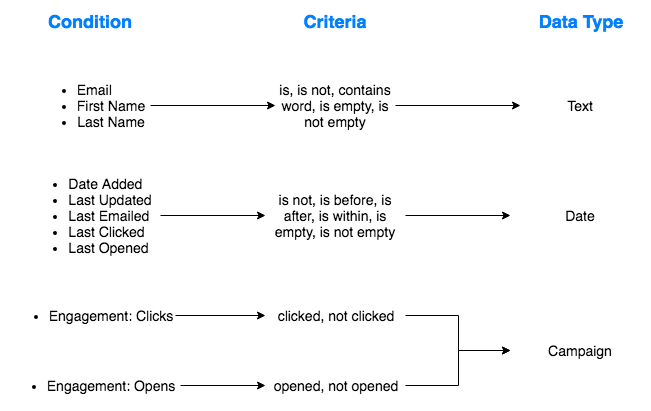
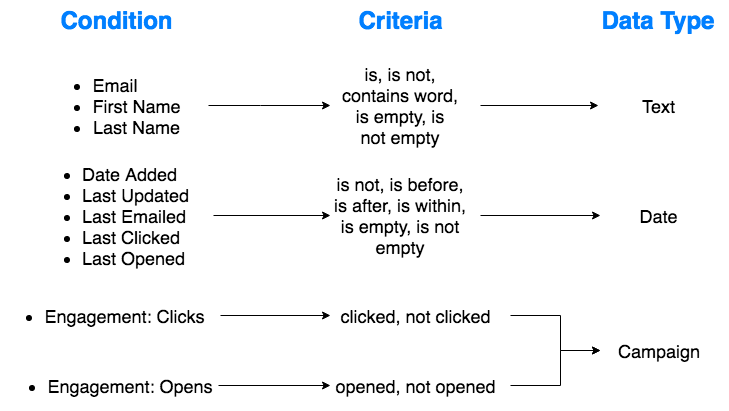
Making text in flow chart bigger

diff --git a/source/User_Guide/Marketing_Campaigns/Managing_Contacts/segmenting_your_contacts.md b/source/User_Guide/Marketing_Campaigns/Managing_Contacts/segmenting_your_contacts.md
@@ -118,8 +118,7 @@ When using more than one condition to segment your contacts, you can select `AND
 You can add up to 15 different conditions per segment.
 {% endinfo %}
 
-![]({{root_url}}/images/Segmentation.png "Segmentation conditions and criteria")
-
+![]({{root_url}}/img/Segmentation.png "Segmentation conditions and criteria")
 
 {% anchor h3 %}
 Exporting a Segment
